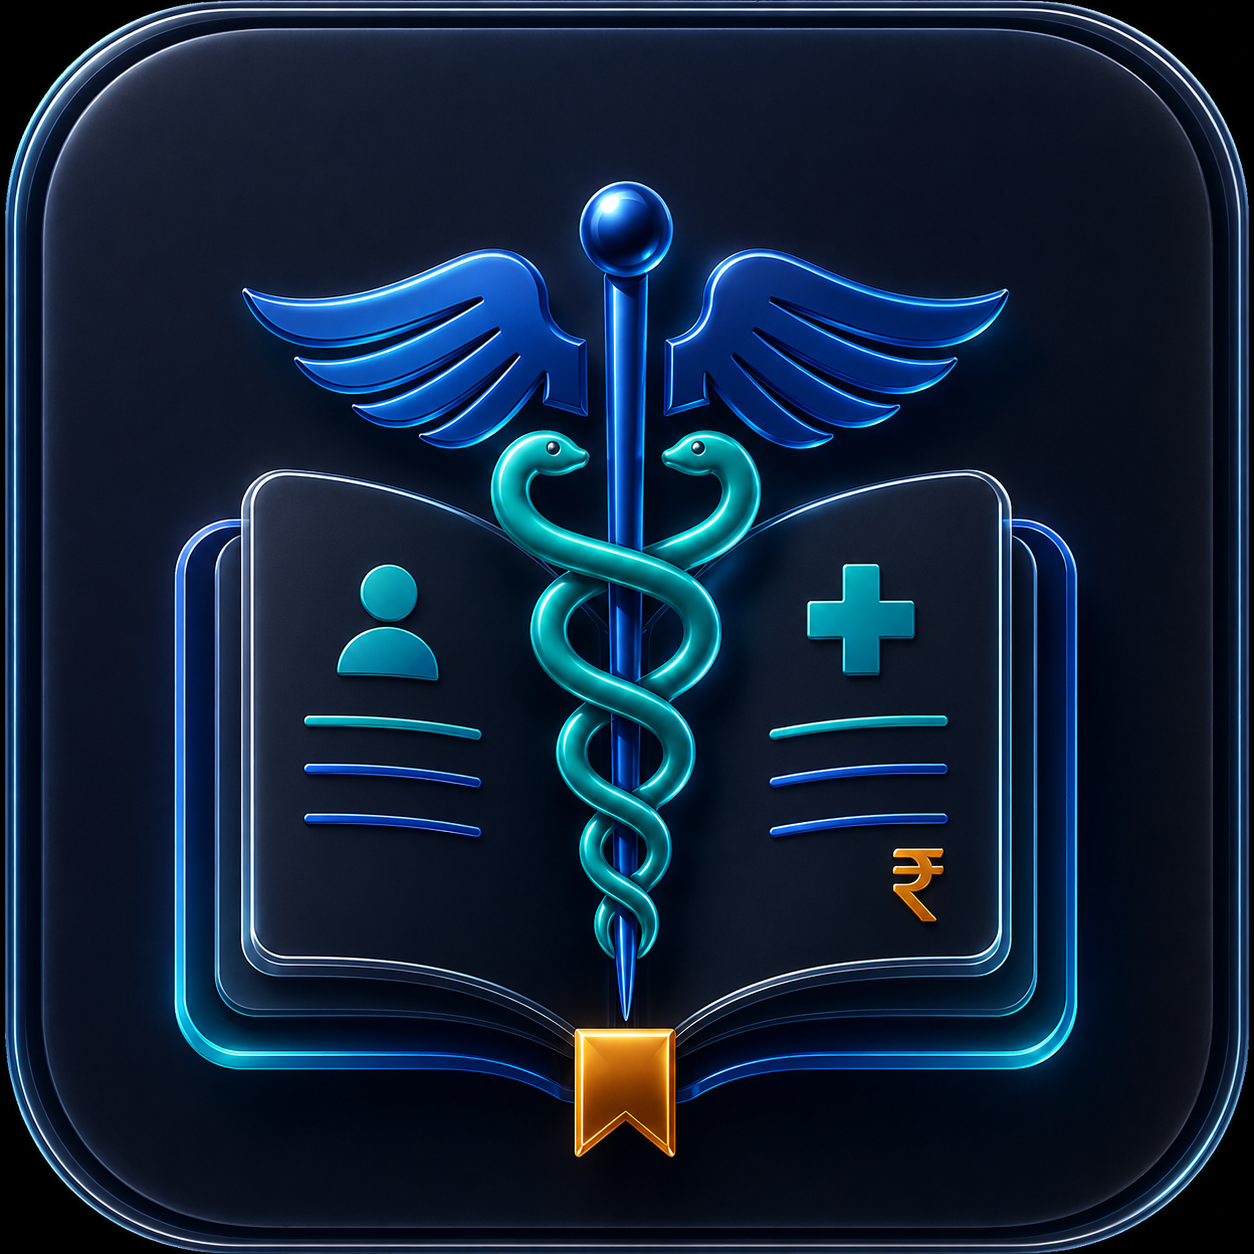
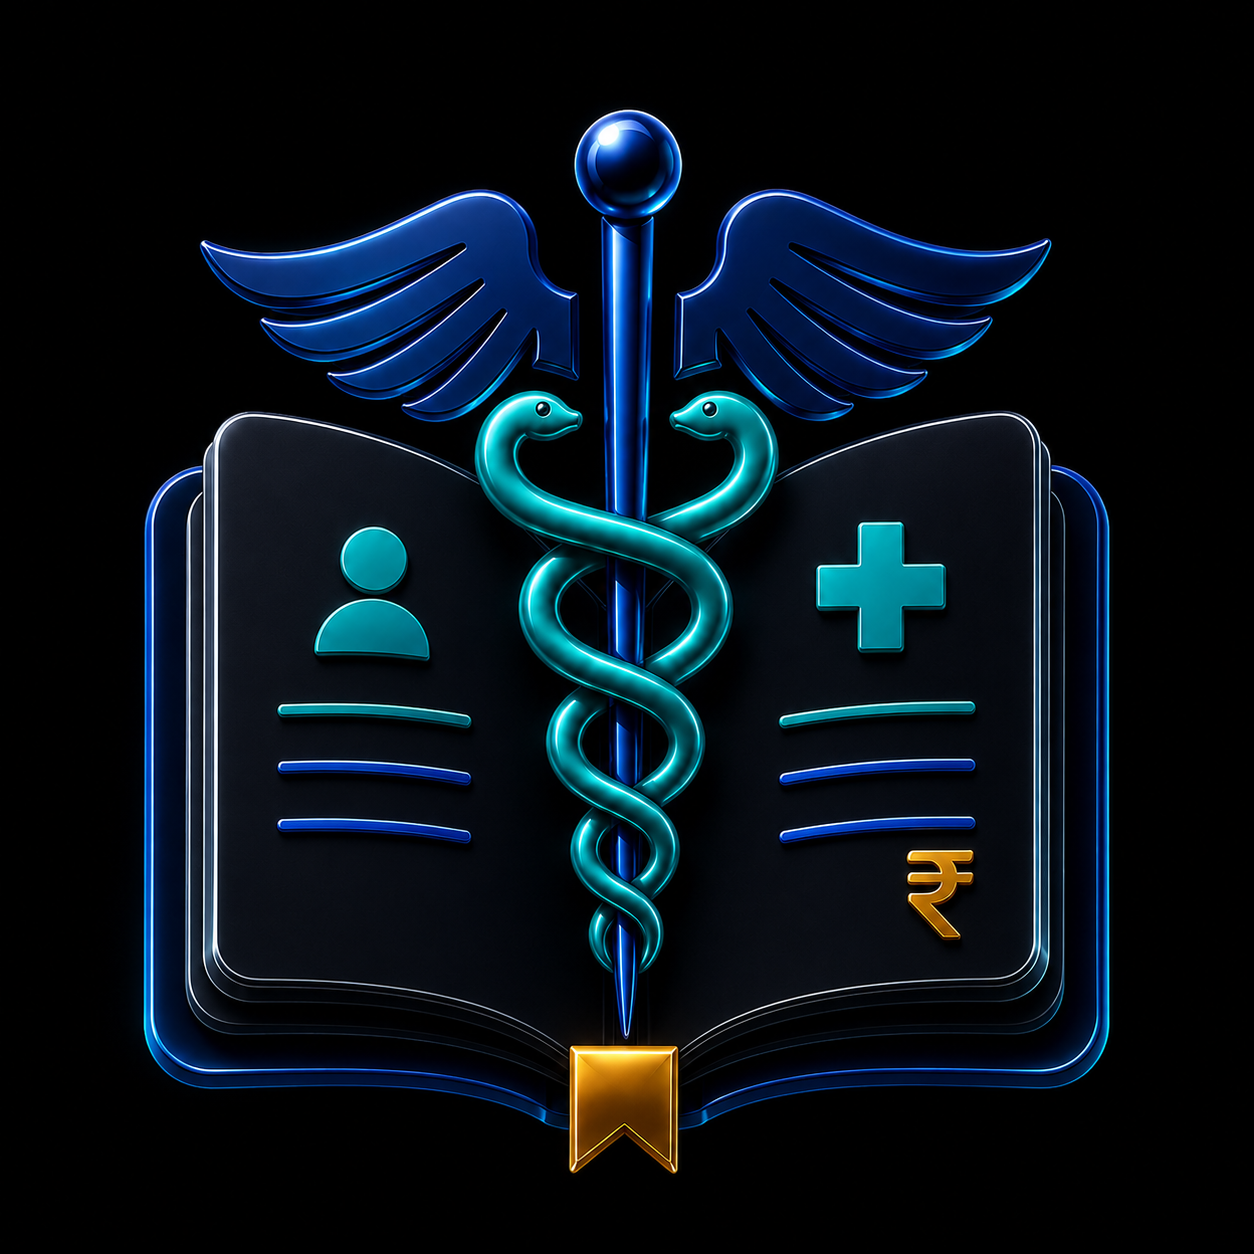
Final warning fixes and clean architecture polish

diff --git a/app/src/main/java/com/clinicledger/data/util/DataSeeder.kt b/app/src/main/java/com/clinicledger/data/util/DataSeeder.kt
@@ -78,14 +78,14 @@ object DataSeeder {
                         relationshipEng = "Grandfather",
                         relationshipHin = "दादाजी",
                         isMale = true,
-                        alias = "Sitaram"
+                        alias = "Sitaram",
                     ),
-                    SeedMember("Saraswati Sharma", "सरस्वती शर्मा", "Grandmother", "दादीजी", false),
-                    SeedMember("Ramesh Sharma", "रमेश शर्मा", "Father", "पिताजी", true, "Ramesh"),
-                    SeedMember("Sunita Sharma", "सुनीता शर्मा", "Mother", "माताजी", false),
-                    SeedMember("Sunil Sharma", "सुनील शर्मा", "Son", "पुत्र", true, "Sunil"),
-                    SeedMember("Aarav Sharma", "आरव शर्मा", "Grandson", "पोता", true, "Aarav")
-                )
+                    SeedMember("Saraswati Sharma", "सरस्वती शर्मा", "Grandmother", "दादीजी", isMale = false),
+                    SeedMember("Ramesh Sharma", "रमेश शर्मा", "Father", "पिताजी", isMale = true, alias = "Ramesh"),
+                    SeedMember("Sunita Sharma", "सुनीता शर्मा", "Mother", "माताजी", isMale = false),
+                    SeedMember("Sunil Sharma", "सुनील शर्मा", "Son", "पुत्र", isMale = true, alias = "Sunil"),
+                    SeedMember("Aarav Sharma", "आरव शर्मा", "Grandson", "पोता", isMale = true, alias = "Aarav"),
+                ),
             ),
             SeedFamily(
                 nameEng = "Kailash Sharma's Family",
@@ -96,11 +96,11 @@ object DataSeeder {
                 casteHin = "शर्मा",
                 villageName = "Jhilai", // Same surname, completely separate family group in Jhilai
                 members = listOf(
-                    SeedMember("Kailash Sharma", "कैलाश शर्मा", "Grandfather", "दादाजी", true, "Kailash"),
-                    SeedMember("Kamla Sharma", "कमला शर्मा", "Grandmother", "दादीजी", false),
+                    SeedMember("Kailash Sharma", "कैलाश शर्मा", "Grandfather", "दादाजी", isMale = true, alias = "Kailash"),
+                    SeedMember("Kamla Sharma", "कमला शर्मा", "Grandmother", "दादीजी", isMale = false),
                     SeedMember("Deepak Sharma", "दीपक शर्मा", "Father", "पिताजी", true, "Deepu"),
                     SeedMember("Rekha Sharma", "रेखा शर्मा", "Mother", "माताजी", false),
-                    SeedMember("Kavita Sharma", "कविता शर्मा", "Daughter", "पुत्री", false)
+                    SeedMember("Kavita Sharma", "कविता शर्मा", "Daughter", "पुत्री", isMale = false),
                 )
             ),
             SeedFamily(
@@ -287,7 +287,7 @@ object DataSeeder {
         for (namePair in independentNames) {
             val village = villages[random.nextInt(villages.size)]
             val phonePrefix = listOf("98", "99", "97", "89", "88", "76", "77", "94")
-            val phone = phonePrefix[random.nextInt(phonePrefix.size)] + String.format("%08d", random.nextInt([phone redacted]))
+            val phone = phonePrefix[random.nextInt(phonePrefix.size)] + String.format(java.util.Locale.US, "%08d", random.nextInt([phone redacted]))
             
             val pastDate = getRandomDateInPast(random, 90)
             val patient = Patient(
@@ -323,7 +323,7 @@ object DataSeeder {
         val numTransactions = random.nextInt(5) // 0 to 4 transactions
         if (numTransactions > 0) {
             var runningBalance = 0.0
-            for (_unused in 1..numTransactions) {
+            repeat(numTransactions) {
                 val daysAgo = random.nextInt(90)
                 val transactionDate = getRandomDateInPast(random, daysAgo)
 
@@ -368,7 +368,7 @@ object DataSeeder {
                 )
                 repository.insertTransaction(tx)
 
-                runningBalance += if (type == "medicine" || type == "adjustment") amount else -amount
+                runningBalance += (if (((type == "medicine") || (type == "adjustment"))) amount else -amount)
             }
         }
     }

diff --git a/app/src/main/java/com/clinicledger/voice/VoiceIntentParser.kt b/app/src/main/java/com/clinicledger/voice/VoiceIntentParser.kt
@@ -62,23 +62,23 @@ object VoiceIntentParser {
 
     private val searchKeywords = setOf(
         "kitna", "baki", "baki hai", "hisaab", "kita", "dikhao", "khata", "balance",
-        "due", "how much", "का", "बकाया", "कितना", "हिसाब", "दिखाओ", "खाता"
+        "due", "how much", "का", "बकाया", "कितना", "हिसाब", "दिखाओ", "खाता",
     )
 
     private val medicineKeywords = setOf(
         "dawa", "dawai", "dava", "davai", "tablet", "syrup", "injection", "medicine",
-        "di", "दवा", "दवाई", "दी"
+        "di", "दवा", "दवाई", "दी",
     )
 
     private val paymentKeywords = setOf(
         "diye", "diya", "jama", "de gaya", "de diye", "paid", "payment",
         "paisa diya", "paisa diye", "दिये", "दिए", "जमा", "दे गए", "पैसा दिया",
-        "jama kar diye"
+        "jama kar diye",
     )
 
     private val newPatientKeywords = setOf(
         "naya", "nayi", "naya patient", "nayi patient", "naya bimaar",
-        "pehli baar", "new patient", "नया", "नयी", "नया रोगी", "पहली बार"
+        "pehli baar", "new patient", "नया", "नयी", "नया रोगी", "पहली बार",
     )
 
     private val correctionKeywords = setOf(
@@ -179,7 +179,7 @@ object VoiceIntentParser {
                         )
                         villageKeys.contains(w)
                     }
-                    (w.length >= 2 && !w.all { it.isDigit() } && !isHindiNumberWord(w) && !isVil && !isStopWord(w))
+                    ((w.length >= 2) && (!w.all { it.isDigit() }) && (!isHindiNumberWord(w)) && (!isVil) && (!isStopWord(w)))
                 }
                 
                 if (words.isNotEmpty()) {
@@ -203,7 +203,7 @@ object VoiceIntentParser {
                     villages.any { v ->
                         val engKey = v.name.lowercase()
                         val hindiKey = v.nameHindi.lowercase()
-                        cleanWord == engKey || cleanWord == hindiKey
+                        ((cleanWord == engKey) || (cleanWord == hindiKey))
                     }
                 } else {
                     val villageKeys = setOf(
@@ -212,11 +212,11 @@ object VoiceIntentParser {
                     villageKeys.contains(cleanWord)
                 }
 
-                val isValidNameWord = word.length >= 2 &&
-                        !word.all { it.isDigit() } &&
-                        !isStopWord(cleanWord) &&
-                        !isVillage &&
-                        !isHindiNumberWord(cleanWord)
+                val isValidNameWord = ((word.length >= 2) &&
+                        (!word.all { it.isDigit() }) &&
+                        (!isStopWord(cleanWord)) &&
+                        (!isVillage) &&
+                        (!isHindiNumberWord(cleanWord)))
 
                 if (isValidNameWord) {
                     foundStart = true
@@ -337,7 +337,7 @@ object VoiceIntentParser {
             val endLook = minOf(words.size - 1, group.endIndex + 4)
 
             for (i in startLook..endLook) {
-                if (i in group.startIndex..group.endIndex) continue
+                if (i in (group.startIndex..group.endIndex)) continue
                 val w = words[i].lowercase(Locale.getDefault())
                 if (medicineKeywordsNear.contains(w)) medScore += 2
                 if (paymentKeywordsNear.contains(w)) payScore += 2

diff --git a/app/src/main/java/com/clinicledger/ui/MainActivity.kt b/app/src/main/java/com/clinicledger/ui/MainActivity.kt
@@ -113,7 +113,7 @@ class MainActivity : AppCompatActivity() {
                                     viewModel = searchViewModel,
                                     onNavigateBack = {
                                         navController.popBackStack()
-                                    }
+                                    },
                                 ) {
                                     navController.popBackStack()
                                 }
@@ -126,8 +126,8 @@ class MainActivity : AppCompatActivity() {
                                         type = NavType.StringType
                                         nullable = true
                                         defaultValue = null
-                                    }
-                                )
+                                    },
+                                ),
                             ) { backStackEntry ->
                                 val patientId = backStackEntry.arguments?.getLong("patientId") ?: 0L
 
@@ -137,10 +137,9 @@ class MainActivity : AppCompatActivity() {
                                     onNavigateBack = {
                                         navController.popBackStack()
                                     },
-                                    onNavigateToPatientDetail = { id ->
-                                        navController.navigate(Screen.PatientDetail.createRoute(id))
-                                    }
-                                )
+                                ) { id ->
+                                    navController.navigate(Screen.PatientDetail.createRoute(id))
+                                }
                             }
                         }
                     }
@@ -148,10 +147,9 @@ class MainActivity : AppCompatActivity() {
                     if (showVoiceAssistantState.value) {
                         VoiceInputSheetCompose(
                             onDismiss = { showVoiceAssistantState.value = false },
-                            onNavigateToPatientDetail = { id ->
-                                navController.navigate(Screen.PatientDetail.createRoute(id))
-                            }
-                        )
+                        ) { id ->
+                            navController.navigate(Screen.PatientDetail.createRoute(id))
+                        }
                     }
                 }
             }

diff --git a/app/src/main/java/com/clinicledger/ui/compose/SearchScreen.kt b/app/src/main/java/com/clinicledger/ui/compose/SearchScreen.kt
@@ -2,7 +2,6 @@ package com.clinicledger.ui.compose
 
 import androidx.activity.compose.BackHandler
 import androidx.compose.foundation.Image
-import androidx.compose.foundation.clickable
 import androidx.compose.foundation.layout.*
 import androidx.compose.foundation.lazy.LazyColumn
 import androidx.compose.foundation.lazy.items
@@ -10,7 +9,6 @@ import androidx.compose.foundation.shape.CircleShape
 import androidx.compose.foundation.shape.RoundedCornerShape
 import androidx.compose.material.icons.Icons
 import androidx.compose.material.icons.automirrored.rounded.ReceiptLong
-import androidx.compose.material.icons.filled.*
 import androidx.compose.material.icons.rounded.*
 import androidx.compose.material3.*
 import androidx.compose.runtime.*
@@ -18,13 +16,9 @@ import androidx.compose.runtime.livedata.observeAsState
 import androidx.compose.ui.Alignment
 import androidx.compose.ui.Modifier
 import androidx.compose.ui.draw.clip
-import androidx.compose.ui.graphics.Color
 import androidx.compose.ui.platform.LocalContext
 import androidx.compose.ui.res.painterResource
-import androidx.compose.ui.res.stringResource
 import androidx.compose.ui.text.font.FontWeight
-import androidx.compose.ui.text.style.TextAlign
-import androidx.compose.ui.text.style.TextOverflow
 import androidx.compose.ui.unit.dp
 import com.clinicledger.R
 import com.clinicledger.data.models.Patient
@@ -92,7 +86,7 @@ fun SearchScreen(
                 },
                 onToggleLanguage = onToggleLanguage,
             )
-        }
+        },
     ) {
         Scaffold(
             topBar = {
@@ -201,12 +195,12 @@ fun LedgerTab(
     allPatients: List<Patient>,
     familyGroups: List<com.clinicledger.data.models.FamilyGroup>,
     onNavigateToDetail: (Long) -> Unit,
-    isHindi: Boolean
+    isHindi: Boolean,
 ) {
     LazyColumn(
         modifier = Modifier.fillMaxSize(),
         contentPadding = PaddingValues(16.dp),
-        verticalArrangement = Arrangement.spacedBy(16.dp)
+        verticalArrangement = Arrangement.spacedBy(16.dp),
     ) {
         item {
             MorningBriefSection(
@@ -266,7 +260,7 @@ fun LedgerTab(
 fun ClinicDrawerContent(
     selectedItem: DrawerItem,
     onItemSelected: (DrawerItem) -> Unit,
-    onToggleLanguage: () -> Unit
+    onToggleLanguage: () -> Unit,
 ) {
     val isHindi = LocalIsHindi.current
     ModalDrawerSheet {